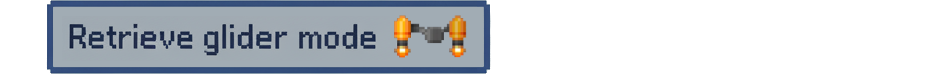
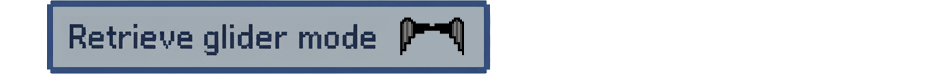
Changed spawnable Dash powerup graphic to be consistent with graphic in objectives, and changed glider graphic in objectives to be consistent with the new glider assetÃ

Changed region(s): [[0.3981, 0.1892, 0.49, 0.7838]]

diff --git a/source/core/src/main/com/csse3200/game/entities/factories/CollectableFactory.java b/source/core/src/main/com/csse3200/game/entities/factories/CollectableFactory.java
@@ -127,7 +127,7 @@ public class CollectableFactory {
                 .addComponent(new TextureRenderComponent("images/dash_powerup.png"))
                 .addComponent(new UpgradesComponent("dash"));
 
-        dash.setScale(0.5f, 0.5f);
+        dash.setScale(0.8f, 0.5f);
         PhysicsUtils.setScaledCollider(dash, 0.5f, 0.5f);
 
         return dash;
